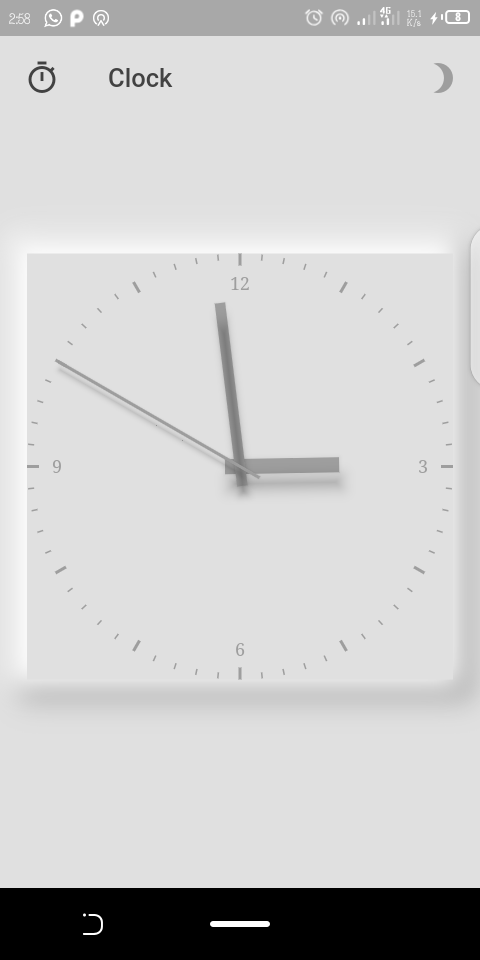
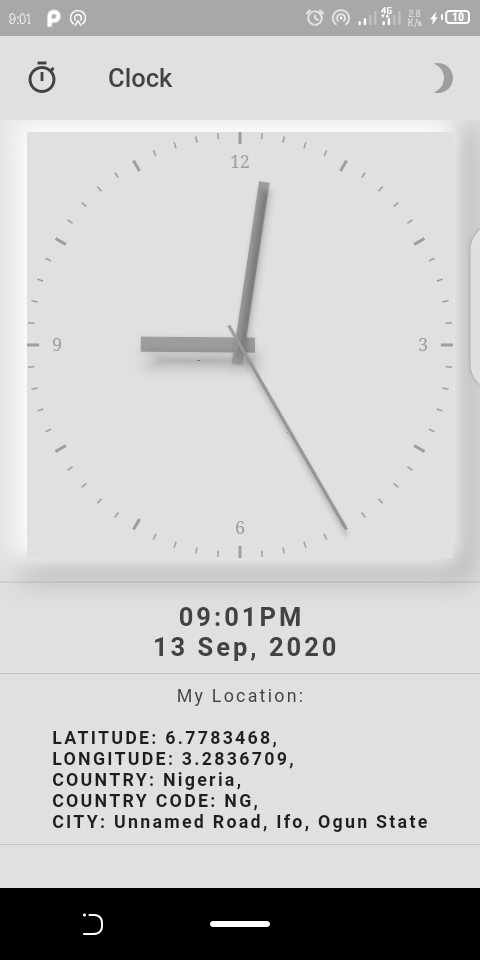
Update

diff --git a/lib/main.dart b/lib/main.dart
@@ -1,5 +1,9 @@
 import 'package:flutter/material.dart';
 import 'package:flutter_clock/clock/clockbody.dart';
+import 'package:flutter_clock/location.dart';
+import 'package:geolocator/geolocator.dart';
+
+import 'package:intl/intl.dart';
 
 void main() {
   runApp(MyApp());
@@ -14,59 +18,84 @@ class _ClockState extends State<MyApp> {
   ThemeData _clocktheme = _buildclocktheme(false);
   List<bool> isSelected = [false];
 
+  Position _currentPosition;
+  String _currentAddress;
+  @override
+  void initState() {
+    // TODO: implement initState
+  }
   @override
   Widget build(BuildContext context) {
+    DateTime now = DateTime.now();
+    String formattedDate = DateFormat('hh:mma \n dd MMM, yyyy').format(now);
     return MaterialApp(
         theme: _clocktheme,
         debugShowCheckedModeBanner: false,
         home: Scaffold(
             appBar: AppBar(
-
               actions: <Widget>[
-          ToggleButtons(
-           color: Colors.grey,
-                        selectedColor: Colors.grey[50],  
-                        borderColor: Colors.transparent,
-                        selectedBorderColor: Colors.transparent,
-                        children: [
-                          Icon(Icons.brightness_3)],
-                        onPressed: (int index) {
-                          setState(() {
-                            isSelected[index] = !isSelected[index];
-                            _clocktheme = _buildclocktheme(isSelected[index]);
-                          });
-                        },
-                        isSelected: isSelected,
-          )
+                ToggleButtons(
+                  color: Colors.grey,
+                  selectedColor: Colors.grey[50],
+                  borderColor: Colors.transparent,
+                  selectedBorderColor: Colors.transparent,
+                  children: [Icon(Icons.brightness_3)],
+                  onPressed: (int index) {
+                    setState(() {
+                      isSelected[index] = !isSelected[index];
+                      _clocktheme = _buildclocktheme(isSelected[index]);
+                    });
+                  },
+                  isSelected: isSelected,
+                )
               ],
-              leading: Icon(Icons.timer,color: isSelected[0] ? Colors.grey[300] : Colors.grey[800]),
-              
-              title: Text('Clock',
-                  style: TextStyle(
-                      color: isSelected[0] ? Colors.grey[300] : Colors.grey[800]
-                      )
-                      ),
-              backgroundColor:  isSelected[0] ? Colors.grey[800] : Colors.grey[300],
+              leading: Icon(Icons.timer,
+                  color: isSelected[0] ? Colors.grey[300] : Colors.grey[800]),
+              title: Text(
+                'Clock',
+                style: TextStyle(
+                    color: isSelected[0] ? Colors.grey[300] : Colors.grey[800]),
+              ),
+              backgroundColor:
+                  isSelected[0] ? Colors.grey[800] : Colors.grey[300],
               elevation: 0,
             ),
             backgroundColor:
                 isSelected[0] ? Colors.grey[800] : Colors.grey[300],
-            body: Center(
-              child: OrientationBuilder(
-                builder: (context, orientation) {
-                  return Flex(
-                    direction: orientation == Orientation.portrait
-                        ? Axis.vertical
-                        : Axis.horizontal,
-                    mainAxisAlignment: MainAxisAlignment.center,
-                    children: [
-                      Container(height: 300, width: 300, child: Clock()),
-                      SizedBox(height: 50, width: 100),
-                       
-                    ],
-                  );
-                },
-              ),
+            body: Column(
+              mainAxisAlignment: MainAxisAlignment.start,
+              children: [
+                Container(height: 300, width: 300, child: Clock()),
+                Divider(),
+                SizedBox(height: 5, width: 100),
+                Center(
+                  child: Text(
+                    formattedDate,
+                    textAlign: TextAlign.center,
+                    style: new TextStyle(
+                        letterSpacing: 2.0,
+                        fontWeight: FontWeight.bold,
+                        fontSize: 20.0,
+                        color: isSelected[0]
+                            ? Colors.grey[300]
+                            : Colors.grey[800]),
+                  ),
+                ),
+                Divider(),
+                SizedBox(height: 0, width: 10),
+                Center(
+                  child: Text(
+                    'My Location:\n',
+                    style: TextStyle(
+                        letterSpacing: 1.5,
+                        color: isSelected[0]
+                            ? Colors.grey[300]
+                            : Colors.grey[800]),
+                  ),
+                ),
+                Center(child: Location()),
+                Divider(),
+              ],
             )));
   }
 }

diff --git a/lib/location.dart b/lib/location.dart
@@ -1,0 +1,83 @@
+import 'package:flutter/material.dart';
+import 'package:geolocator/geolocator.dart';
+
+class Location extends StatefulWidget {
+  @override
+  _HomePageState createState() => _HomePageState();
+}
+
+class _HomePageState extends State<Location> {
+  final Geolocator geolocator = Geolocator()..forceAndroidLocationManager;
+
+  Position _currentPosition;
+  String _currentAddress;
+
+  @override
+  void initState() {
+    _getCurrentLocation();
+    super.initState();
+  }
+
+  @override
+  Widget build(BuildContext context) {
+    return Center(
+      child: Column(
+        mainAxisAlignment: MainAxisAlignment.center,
+        children: <Widget>[if (_currentPosition != null) Text(_currentAddress, style: TextStyle(fontWeight: FontWeight.bold, letterSpacing: 1.5),)],
+      ),
+    );
+  }
+
+  _getCurrentLocation() {
+    geolocator
+        .getCurrentPosition(desiredAccuracy: LocationAccuracy.best)
+        .then((Position position) {
+      setState(() {
+        _currentPosition = position;
+      });
+
+      _getAddressFromLatLng();
+    }).catchError((e) {
+      print(e);
+    });
+  }
+
+  _getAddressFromLatLng() async {
+    try {
+      List<Placemark> p = await geolocator.placemarkFromCoordinates(
+          _currentPosition.latitude, _currentPosition.longitude);
+
+      Placemark place = p[0];
+
+      setState(() {
+        _currentAddress =
+            "LATITUDE: ${_currentPosition.latitude}, \nLONGITUDE: ${_currentPosition.longitude},\n"
+            "COUNTRY: ${place.country}, \nCOUNTRY CODE: ${place.isoCountryCode}, \nCITY: ${place.name}, ${place.subAdministrativeArea}, ${place.administrativeArea}";
+      });
+    } catch (e) {
+      print(e);
+    }
+  }
+}
+
+/* _getCurrentLocation() async {
+    Position position =
+        await getCurrentPosition(desiredAccuracy: LocationAccuracy.high);
+    print(position);
+  setState(() {
+    _currentPosition = position;
+  });
+     _getAddressFromLatLng();
+  }
+
+  _getAddressFromLatLng() async {
+  final coordinates = new Coordinates(
+          _currentPosition.latitude, _currentPosition.longitude);
+      var addresses = await Geocoder.local.findAddressesFromCoordinates(
+          coordinates);
+      var first = addresses.first;
+      
+      print(' ${first.locality}, ${first.adminArea},${first.subLocality}, ${first.subAdminArea},${first.addressLine}, ${first.featureName},${first.thoroughfare}, ${first.subThoroughfare}');
+      return first;
+  }
+  */

diff --git a/README.md b/README.md
@@ -6,7 +6,9 @@ An Alalog Clock Designed using Flutter
 - Neumophoric Designs
 - Dark and Light Mode  
 
- ![flutter_01](https://user-images.githubusercontent.com/34428244/92997281-045e7a00-f50a-11ea-9e59-ed59dd8eccb0.png) ![flutter_02](https://user-images.githubusercontent.com/34428244/92997324-599a8b80-f50a-11ea-87f7-e7c840dc61ff.png)
+ ![flutter_01](https://user-images.githubusercontent.com/34428244/92997281-045e7a00-f50a-11ea-9e59-ed59dd8eccb0.png) 
+ 
+ ![flutter_02](https://user-images.githubusercontent.com/34428244/92997324-599a8b80-f50a-11ea-87f7-e7c840dc61ff.png)
 
  
 
